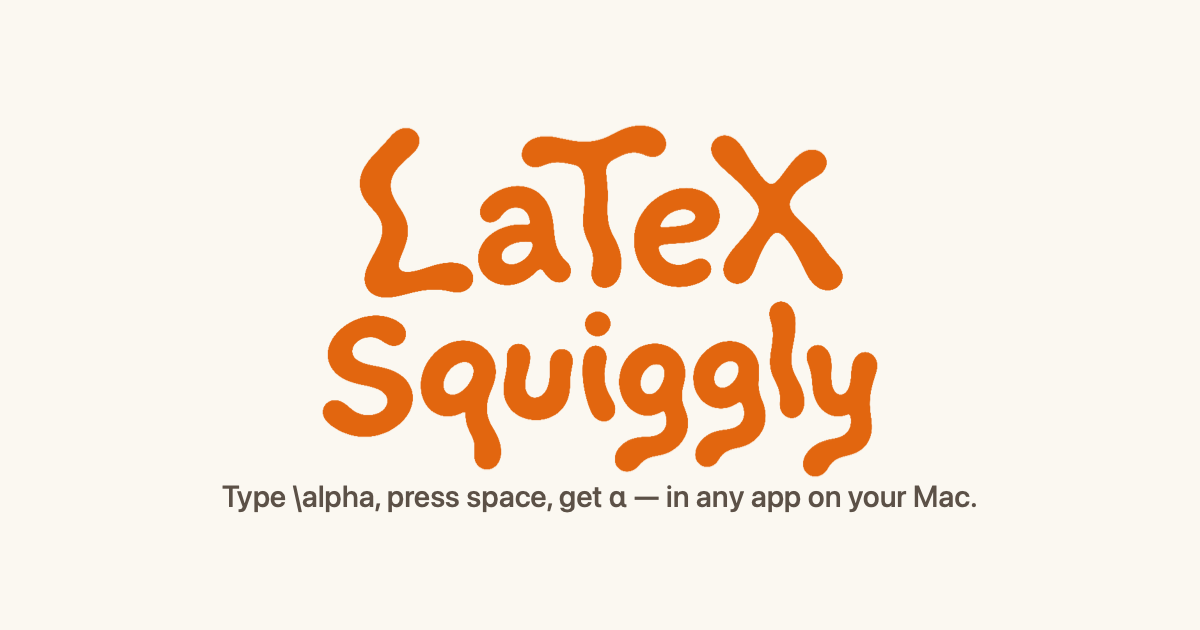
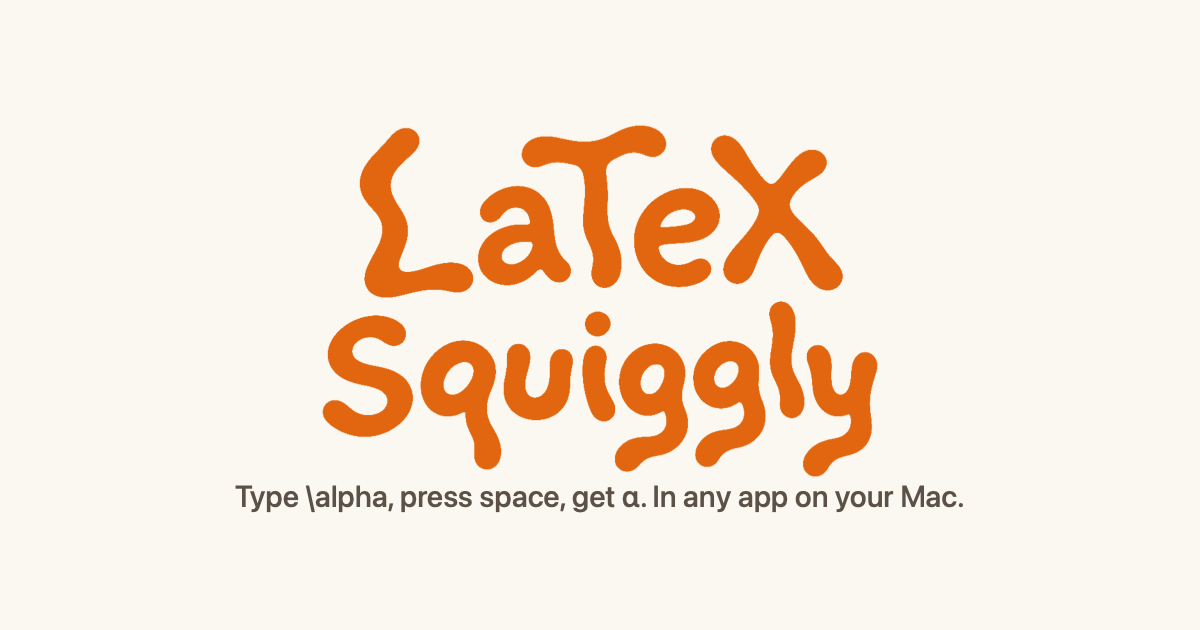
Generate a social preview card for GitHub
GitHub wants a flat 2:1 image for a repository's social preview, while Open
Graph scrapers crop to roughly 1.91:1, so one card cannot serve both. Same
drawing, two canvases.

The caption loses its em dash while passing through.

Changed region(s): [[0.185, 0.754, 0.8017, 0.8143]]

diff --git a/Tools/make_site_images.swift b/Tools/make_site_images.swift
@@ -215,51 +215,57 @@ func writeFavicon(side: Int, as name: String) {
 
 writeFavicon(side: 256, as: "favicon.png")
 
-// The link card, at the 1.91:1 the scrapers crop to.
-let cardW = 1200, cardH = 630
-let card = CGContext(data: nil, width: cardW, height: cardH, bitsPerComponent: 8, bytesPerRow: 0,
-                     space: CGColorSpaceCreateDeviceRGB(),
-                     bitmapInfo: CGImageAlphaInfo.premultipliedLast.rawValue)!
-card.interpolationQuality = .high
-card.setFillColor(CGColor(red: 250/255, green: 247/255, blue: 238/255, alpha: 1))
-card.fill(CGRect(x: 0, y: 0, width: cardW, height: cardH))
+// The link card. Two sizes, because the two places that show one disagree:
+// Open Graph scrapers crop to roughly 1.91:1, and GitHub's social preview
+// wants a flat 2:1. Same drawing, different canvas.
+func drawCard(width cardW: Int, height cardH: Int, as name: String) {
+    let card = CGContext(data: nil, width: cardW, height: cardH, bitsPerComponent: 8, bytesPerRow: 0,
+                         space: CGColorSpaceCreateDeviceRGB(),
+                         bitmapInfo: CGImageAlphaInfo.premultipliedLast.rawValue)!
+    card.interpolationQuality = .high
+    card.setFillColor(CGColor(red: 250/255, green: 247/255, blue: 238/255, alpha: 1))
+    card.fill(CGRect(x: 0, y: 0, width: cardW, height: cardH))
 
-// Painted through the coverage rather than through the mask file: Core
-// Graphics reads a clipping mask the other way up from CSS, and one artwork
-// that means two opposite things is a trap worth not setting.
-let art = load("Assets/app-icon.png")
-let (values, w, h, box) = coverage(of: art, keyingPaper: true)
-let inkW = 560.0, inkH = inkW * box.height / box.width
-let inkRect = CGRect(x: (Double(cardW) - inkW) / 2, y: Double(cardH) / 2 - inkH / 2 + 14,
-                     width: inkW, height: inkH)
+    // Painted through the coverage rather than through the mask file: Core
+    // Graphics reads a clipping mask the other way up from CSS, and one artwork
+    // that means two opposite things is a trap worth not setting.
+    let art = load("Assets/app-icon.png")
+    let (values, w, h, box) = coverage(of: art, keyingPaper: true)
+    let inkW = 560.0, inkH = inkW * box.height / box.width
+    let inkRect = CGRect(x: (Double(cardW) - inkW) / 2, y: Double(cardH) / 2 - inkH / 2 + 14,
+                         width: inkW, height: inkH)
 
-let cropped = greyImage(values, w, h).cropping(to: box)!
-let (cardCoverage, coverageH) = resampledCoverage(cropped, width: Int(inkW))
-var inkBytes = [UInt8](repeating: 0, count: Int(inkW) * coverageH * 4)
-for i in 0..<(Int(inkW) * coverageH) {
-    let a = Double(cardCoverage[i]) / 255
-    inkBytes[i*4]     = UInt8(226 * a)
-    inkBytes[i*4 + 1] = UInt8(102 * a)
-    inkBytes[i*4 + 2] = UInt8( 15 * a)
-    inkBytes[i*4 + 3] = UInt8(255 * a)
+    let cropped = greyImage(values, w, h).cropping(to: box)!
+    let (cardCoverage, coverageH) = resampledCoverage(cropped, width: Int(inkW))
+    var inkBytes = [UInt8](repeating: 0, count: Int(inkW) * coverageH * 4)
+    for i in 0..<(Int(inkW) * coverageH) {
+        let a = Double(cardCoverage[i]) / 255
+        inkBytes[i*4]     = UInt8(226 * a)
+        inkBytes[i*4 + 1] = UInt8(102 * a)
+        inkBytes[i*4 + 2] = UInt8( 15 * a)
+        inkBytes[i*4 + 3] = UInt8(255 * a)
+    }
+    inkBytes.withUnsafeMutableBytes { buffer in
+        let ctx = CGContext(data: buffer.baseAddress, width: Int(inkW), height: coverageH,
+                            bitsPerComponent: 8, bytesPerRow: Int(inkW) * 4,
+                            space: CGColorSpaceCreateDeviceRGB(),
+                            bitmapInfo: CGImageAlphaInfo.premultipliedLast.rawValue)!
+        card.draw(ctx.makeImage()!, in: inkRect)
+    }
+
+    let caption = "Type \\alpha, press space, get \u{03B1}. In any app on your Mac."
+    let centred = NSMutableParagraphStyle(); centred.alignment = .center
+    NSGraphicsContext.saveGraphicsState()
+    NSGraphicsContext.current = NSGraphicsContext(cgContext: card, flipped: false)
+    caption.draw(in: NSRect(x: 100, y: 92, width: Double(cardW) - 200, height: 60),
+                 withAttributes: [
+                    .font: NSFont.systemFont(ofSize: 30, weight: .medium),
+                    .foregroundColor: NSColor(red: 92/255, green: 81/255, blue: 71/255, alpha: 1),
+                    .paragraphStyle: centred,
+                 ])
+    NSGraphicsContext.restoreGraphicsState()
+    writePNG(NSBitmapImageRep(cgImage: card.makeImage()!), name)
 }
-inkBytes.withUnsafeMutableBytes { buffer in
-    let ctx = CGContext(data: buffer.baseAddress, width: Int(inkW), height: coverageH,
-                        bitsPerComponent: 8, bytesPerRow: Int(inkW) * 4,
-                        space: CGColorSpaceCreateDeviceRGB(),
-                        bitmapInfo: CGImageAlphaInfo.premultipliedLast.rawValue)!
-    card.draw(ctx.makeImage()!, in: inkRect)
-}
 
-let caption = "Type \\alpha, press space, get \u{03B1} \u{2014} in any app on your Mac."
-let centred = NSMutableParagraphStyle(); centred.alignment = .center
-NSGraphicsContext.saveGraphicsState()
-NSGraphicsContext.current = NSGraphicsContext(cgContext: card, flipped: false)
-caption.draw(in: NSRect(x: 100, y: 92, width: Double(cardW) - 200, height: 60),
-             withAttributes: [
-                .font: NSFont.systemFont(ofSize: 30, weight: .medium),
-                .foregroundColor: NSColor(red: 92/255, green: 81/255, blue: 71/255, alpha: 1),
-                .paragraphStyle: centred,
-             ])
-NSGraphicsContext.restoreGraphicsState()
-writePNG(NSBitmapImageRep(cgImage: card.makeImage()!), "og-card.png")
+drawCard(width: 1200, height: 630, as: "og-card.png")        // the website
+drawCard(width: 1280, height: 640, as: "github-card.png")    // GitHub's social preview

diff --git a/docs/README.md b/docs/README.md
@@ -9,7 +9,7 @@ docs/
   assets/styles.css   one stylesheet, tokens for light and dark
   assets/app.js       the live demo and the symbol browser
   assets/data.js      generated — the app's own tables
-  assets/*.png        the artwork, the favicon, the link card
+  assets/*.png        the artwork, the favicon, the link cards
 ```
 
 ## Publishing it
@@ -39,6 +39,11 @@ Nor are the four images, which come out of the artwork in `Assets/`:
 Scripts/make-icons.sh                  # for the iconset the favicon is cut from
 swift Tools/make_site_images.swift
 ```
+
+`github-card.png` is not used by the site. It is the 1280x640 image GitHub
+wants for a repository's social preview, uploaded by hand in **Settings ->
+General -> Social preview**, and it is generated here so it stays in step with
+the artwork.
 
 `wordmark.png` and `mark.png` are alpha masks, not pictures — the page inks
 them from a CSS custom property, so one file serves both themes. Their grey
